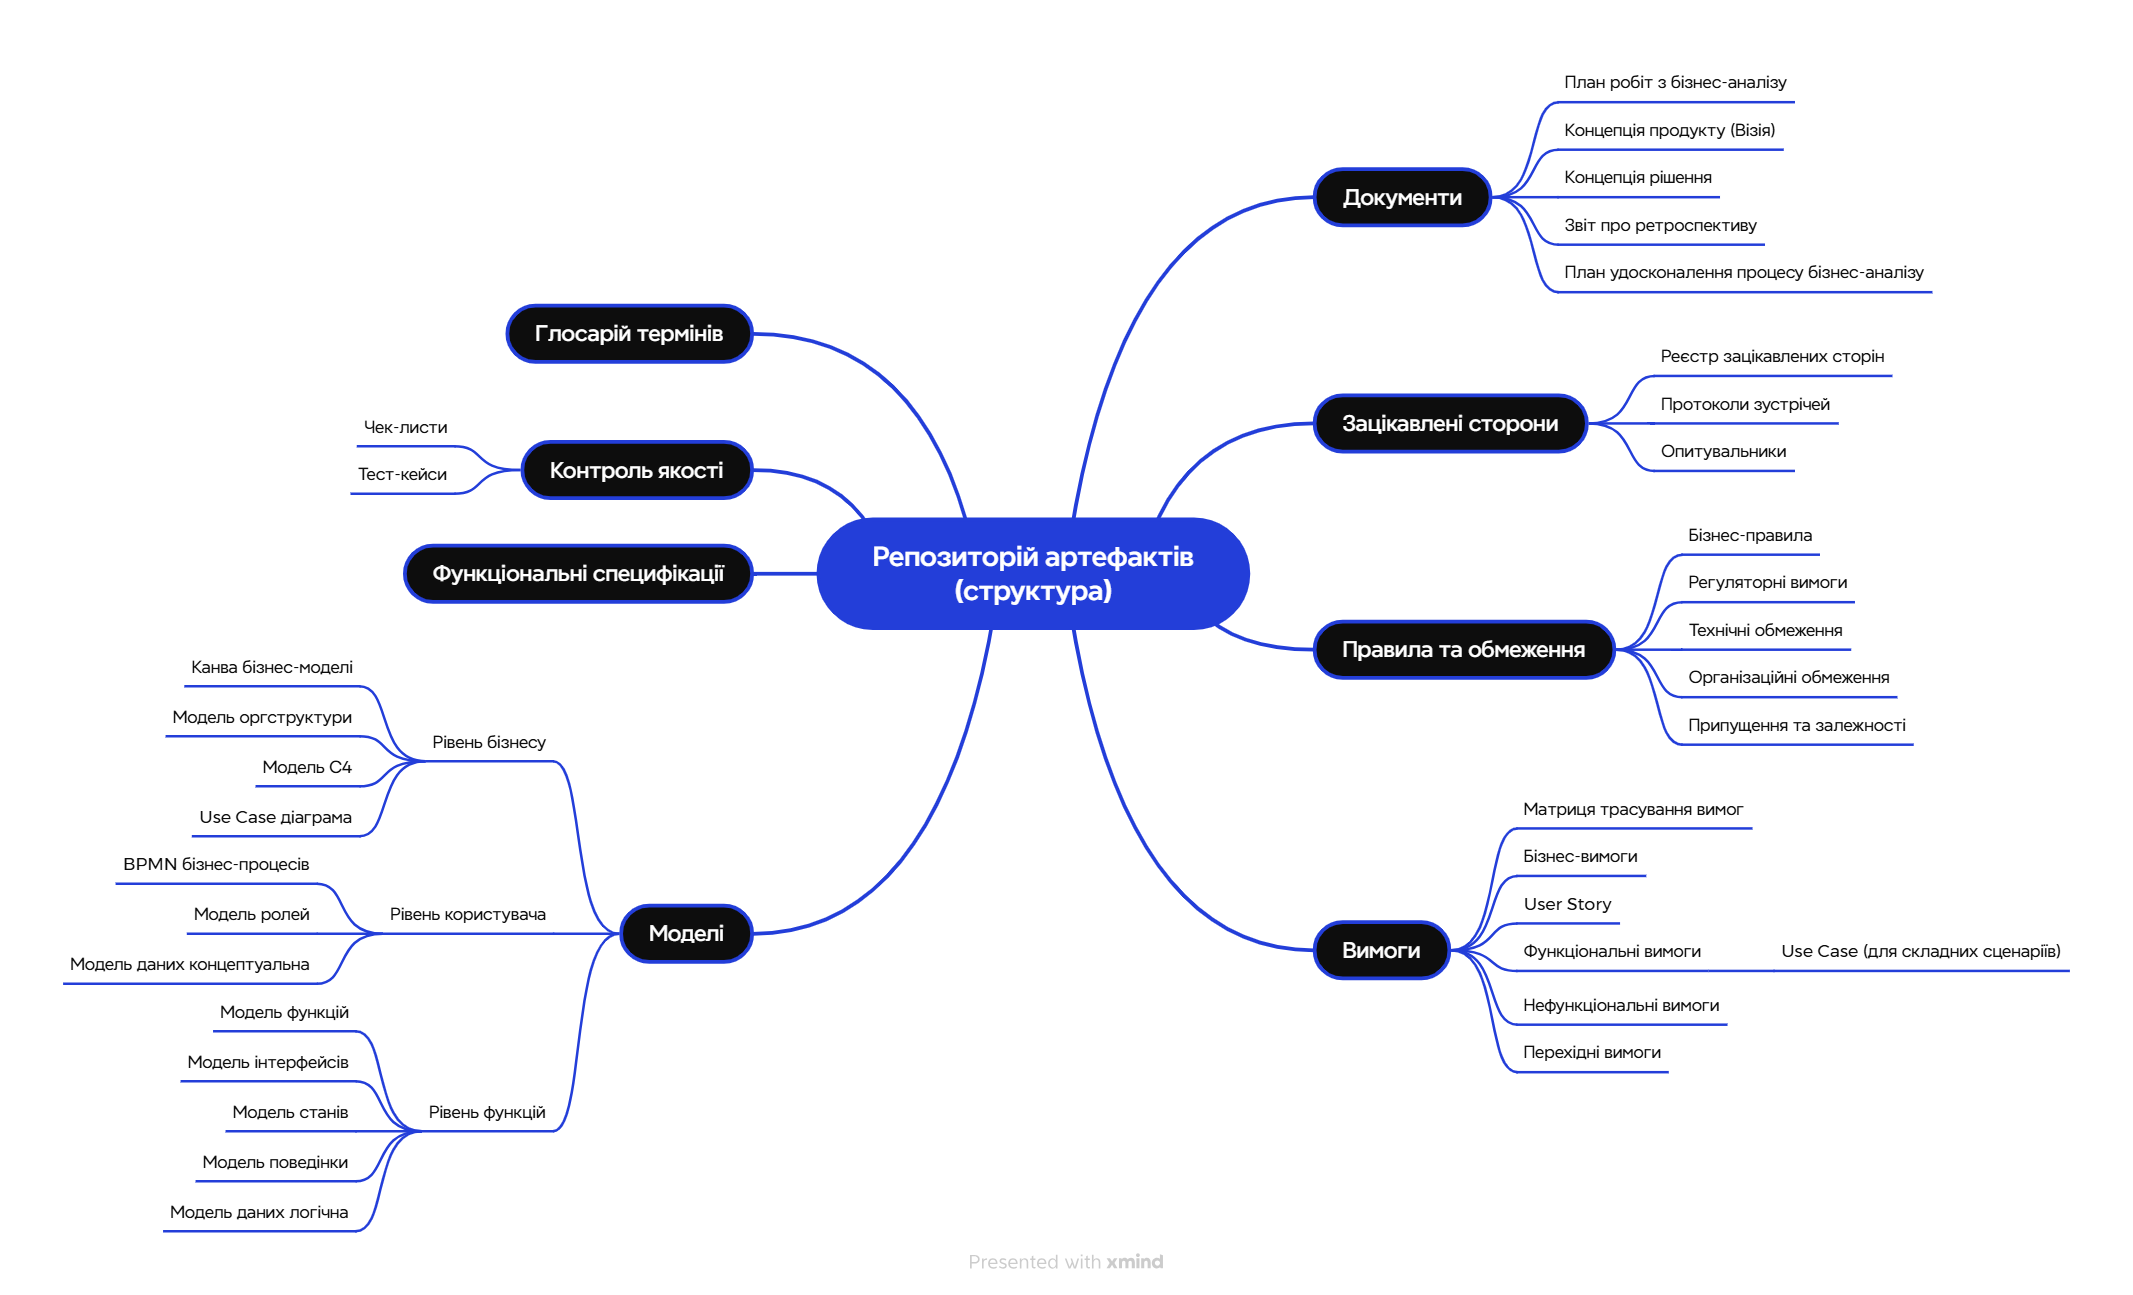
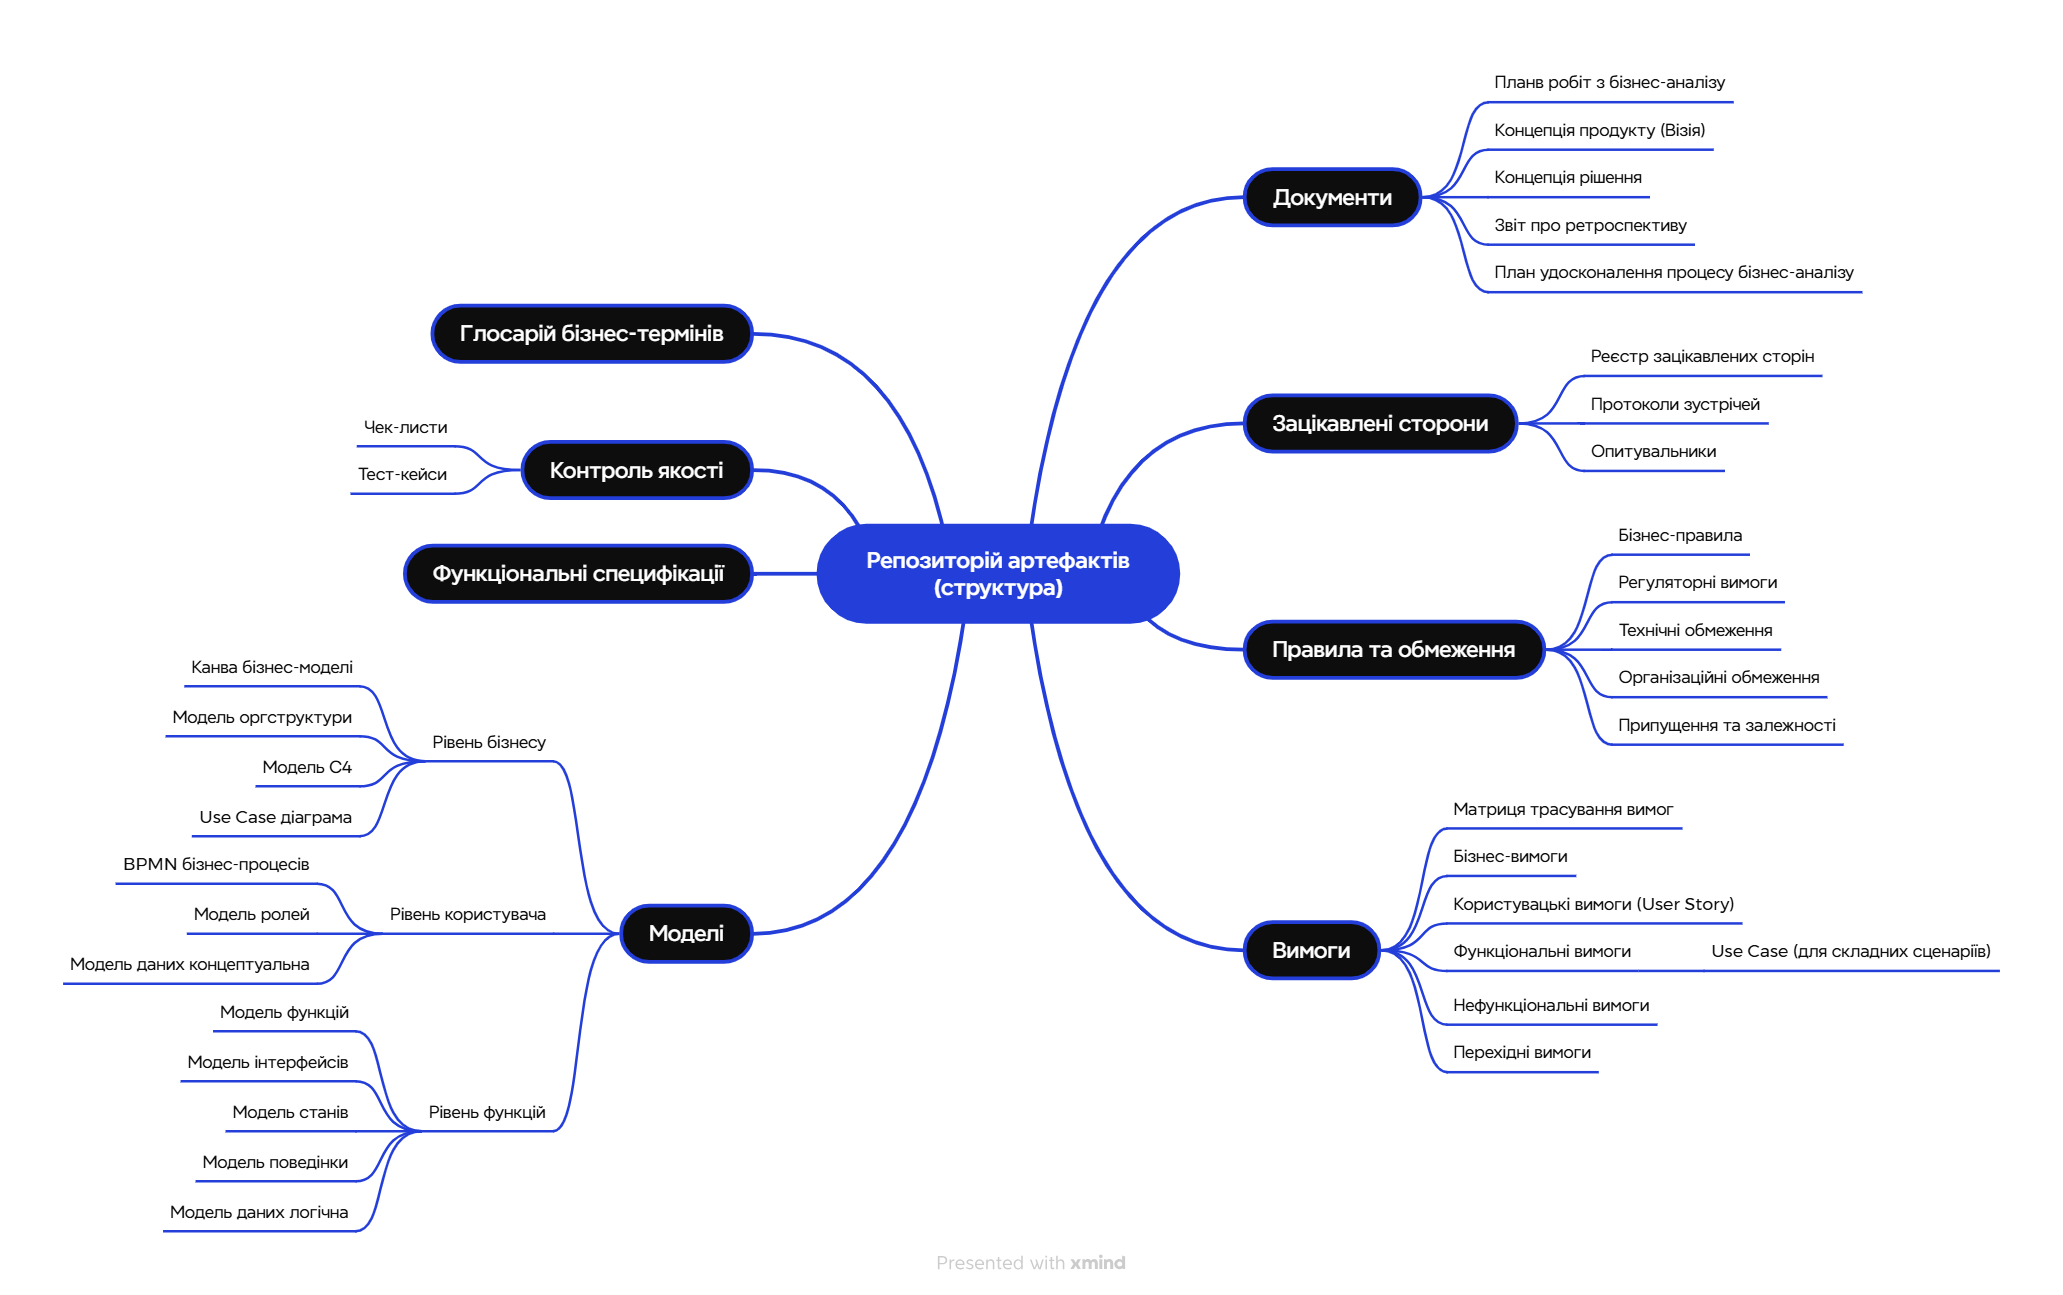
change page concept

diff --git a/concept.html b/concept.html
@@ -662,7 +662,7 @@
                         План робіт з&nbsp;бізнес&ndash;аналізу (див.
                         <a href="">шаблон</a>)
                       </li>
-                       <li>
+                      <li>
                         Репозиторій артефактів бізнес&ndash;аналізу (див.
                         <a href="./templates.html">структура</a>)
                       </li>
@@ -786,7 +786,7 @@
                         <a href="">шаблон</a>)
                       </li>
                       <li>
-                        Глосарій термінів (див.
+                        Глосарій бізнес-термінів (див.
                         <a href="">шаблон</a>)
                       </li>
                     </ul>
@@ -829,7 +829,7 @@
                     <ul>
                       <li>Визначити концепцію продукту та&nbsp;межі проєкту</li>
                       <li>Визначити бізнес&ndash;вимоги</li>
-                      <li>Створити глосарій термінів</li>
+                      <li>Створити Глосарій бізнес-термінів</li>
                     </ul>
                   </div>
                   <div class="col">
@@ -837,7 +837,7 @@
                     <ul>
                       <li>Бізнес-потребу та межі проєкту визначено</li>
                       <li>Бізнес-вимоги та концепцію продукту погоджено</li>
-                      <li>Глосарій термінів створено</li>
+                      <li>Глосарій бізнес-термінів створено</li>
                     </ul>
                   </div>
                 </div>
@@ -928,7 +928,7 @@
                         <a href="./concept.html#i2">Визначення контексту</a>)
                       </li>
                       <li>
-                        Глосарій термінів (див.
+                        Глосарій бізнес-термінів (див.
                         <a href="./concept.html#i2">Визначення контексту</a>)
                       </li>
                     </ul>
@@ -965,7 +965,7 @@
                         <a href="">шаблон</a>)
                       </li>
                       <li>
-                        Глосарій термінів (див.
+                        Глосарій бізнес-термінів (див.
                         <a href="">шаблон</a>)
                       </li>
                     </ul>
@@ -1017,7 +1017,7 @@
                       <li>Визначити бізнес-правила</li>
                       <li>Визначити нефункціональні вимоги</li>
                       <li>Актуалізувати матрицю трасування вимог</li>
-                      <li>Актуалізувати глосарій термінів</li>
+                      <li>Актуалізувати Глосарій бізнес-термінів</li>
                     </ul>
                   </div>
                   <div class="col">
@@ -1029,7 +1029,7 @@
                       <li>Бізнес-правила визначені</li>
                       <li>Нефункціональні вимоги визначені</li>
                       <li>Матриця трасування вимог актуалізована</li>
-                      <li>Глосарій термінів актуалізовано</li>
+                      <li>Глосарій бізнес-термінів актуалізовано</li>
                     </ul>
                   </div>
                 </div>
@@ -1158,7 +1158,7 @@
                         <a href="./concept.html#i2">Визначення контексту</a>)
                       </li>
                       <li>
-                        Глосарій термінів (див.
+                        Глосарій бізнес-термінів (див.
                         <a href="./concept.html#i2">Визначення контексту</a>)
                       </li>
                     </ul>
@@ -1215,7 +1215,7 @@
                         <a href="">шаблон</a>)
                       </li>
                       <li>
-                        Глосарій термінів (див.
+                        Глосарій бізнес-термінів (див.
                         <a href="">шаблон</a>)
                       </li>
                     </ul>
@@ -1272,7 +1272,7 @@
                       <li>Створити модель інтерфейсів</li>
                       <li>Створити функціональні специфікації</li>
                       <li>Актуалізувати матрицю трасування вимог</li>
-                      <li>Актуалізувати глосарій термінів</li>
+                      <li>Актуалізувати Глосарій бізнес-термінів</li>
                     </ul>
                   </div>
                   <div class="col">
@@ -1281,7 +1281,7 @@
                       <li>Концепцію рішення та моделі погоджено</li>
                       <li>Функціональні специфікації створено</li>
                       <li>Матриця трасування вимог актуалізована</li>
-                      <li>Глосарій термінів актуалізовано</li>
+                      <li>Глосарій бізнес-термінів актуалізовано</li>
                     </ul>
                   </div>
                 </div>
@@ -1407,7 +1407,7 @@
                         <a href="">шаблон</a>)
                       </li>
                       <li>
-                        Глосарій термінів (див.
+                        Глосарій бізнес-термінів (див.
                         <a href="">шаблон</a>)
                       </li>
                     </ul>
@@ -1586,7 +1586,7 @@
                   <li>Бізнес-вимоги</li>
                   <li>Реєстр зацікавлених сторін</li>
                   <li>Матриця трасування вимог</li>
-                  <li>Глосарій термінів</li>
+                  <li>Глосарій бізнес-термінів</li>
                 </ul>
               </td>
               <td>
@@ -1609,7 +1609,7 @@
                   <li>Бізнес-правила</li>
                   <li>Обмеження</li>
                   <li>Матриця трасування вимог</li>
-                  <li>Глосарій термінів</li>
+                  <li>Глосарій бізнес-термінів</li>
                 </ul>
               </td>
               <td>
@@ -1632,7 +1632,7 @@
                   <li>Функціональні специфікації</li>
                   <li>Перехідні вимоги</li>
                   <li>Матриця трасування вимог</li>
-                  <li>Глосарій термінів</li>
+                  <li>Глосарій бізнес-термінів</li>
                 </ul>
               </td>
               <td>
@@ -1677,7 +1677,7 @@
               <img
                 src="./src/img/concept-lifeCycle.png"
                 class="img-fluid"
-                style="width: 80%;"
+                style="width: 80%"
                 alt="Життєвий цикл бізнес-аналізу"
               />
             </div>

diff --git a/ba/main.html b/ba/main.html
@@ -21,7 +21,7 @@
     <title>Бізнес-аналіз &mdash; babok4me</title>
     <meta
       name="description"
-      content="Матеріали з бізнес-аналізу: глосарій термінів, техніки, моделювання та нотації, артефакти й області знань для роботи аналітиків."
+      content="Матеріали з бізнес-аналізу: Глосарій бізнес-термінів, техніки, моделювання та нотації, артефакти й області знань для роботи аналітиків."
     />
     <link rel="icon" type="image/png" sizes="32х32" href="../favicon.png" />
     <link

diff --git a/about.html b/about.html
@@ -270,7 +270,7 @@
           <b>Що містить довідник</b>
           <ul>
             <li>базові поняття бізнес-аналізу;</li>
-            <li>глосарій термінів;</li>
+            <li>Глосарій бізнес-термінів;</li>
             <li>техніки бізнес-аналізу;</li>
             <li>артефакти та шаблони;</li>
             <li>моделювання (BPMN, UML, ERD тощо);</li>

diff --git a/templates.html b/templates.html
@@ -503,7 +503,7 @@
                   aria-expanded="false"
                   aria-controls="flush-collapse-8"
                 >
-                  <a href="">Глосарій термінів</a>
+                  <a href="">Глосарій бізнес-термінів</a>
                 </button>
               </h2>
             </div>
